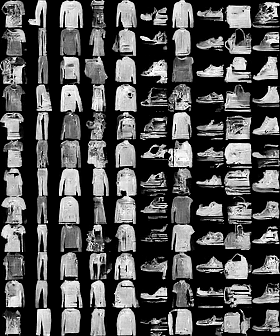
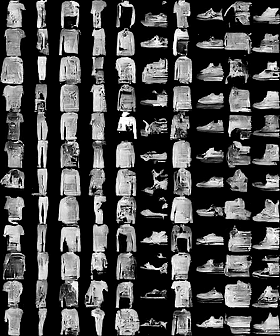
Fix mistake in class CondGatedMaskedConv2d

diff --git a/train.py b/train.py
@@ -12,7 +12,7 @@ n_classes = 10 # number of classes
 n_epochs = 25 # number of epochs to train
 n_layers = 7 # number of convolutional layers
 n_channels = 16 # number of channels
-device = 'cuda'
+device = 'cuda:0'
 
 def to_one_hot(y, k=10):
     y = y.view(-1, 1)
@@ -20,7 +20,7 @@ def to_one_hot(y, k=10):
     y_one_hot.scatter_(1, y, 1)
     return y_one_hot.float()
 
-pixel_cnn = PixelCNN(n_channels, n_layers).cuda()
+pixel_cnn = PixelCNN(n_channels, n_layers).to(device)
 label_net = LabelNet().to(device)
 
 trainloader = data.DataLoader(datasets.MNIST('data', train=True,
@@ -83,11 +83,11 @@ for epoch in range(n_epochs):
                 probs = F.softmax(out[:, :, i, j], dim=1)
                 sample[:, :, i, j] = torch.multinomial(probs, 1).float() / 255.
 
-        utils.save_image(sample, 'sample_{:02d}.png'.format(epoch), nrow=10, padding=0)
+        utils.save_image(sample, 'sample_{:02d}.png'.format(epoch+1), nrow=10, padding=0)
 
-        output_string = 'epoch: {}/{} bpp_tr: {:.7f}' + \
-            'bpp_te: {:.7f} time_tr: {:.1f}s time_te: {:.1f}s'
-        print(output_string.format(epoch,
+        output_string = 'epoch: {}/{} bpp (train): {:.7f}' + \
+            ' bpp (test): {:.7f} time (training): {:.1f}s time (testing): {:.1f}s'
+        print(output_string.format(epoch+1,
                                    n_epochs,
                                    np.mean(err_tr)/np.log(2),
                                    np.mean(err_te)/np.log(2),

diff --git a/layers.py b/layers.py
@@ -55,10 +55,10 @@ class CondGatedMaskedConv2d(nn.Module):
         x: input
         h: conditional input (should have the same shape as input)
         """
-        inp = self.tanh(self.masked_conv_1(x))
-        inp_gate = self.sigm(self.masked_conv_2(x))
-        cond = self.tanh(self.cond_conv_1(h))
-        cond_gate = self.sigm(self.cond_conv_2(h))
-        return inp*inp_gate + cond*cond_gate
+        inp = self.tanh(self.masked_conv_1(x)
+                        + self.cond_conv_1(h))
+        gate = self.sigm(self.masked_conv_2(x)
+                         + self.cond_conv_2(h))
+        return inp * gate
     
 
